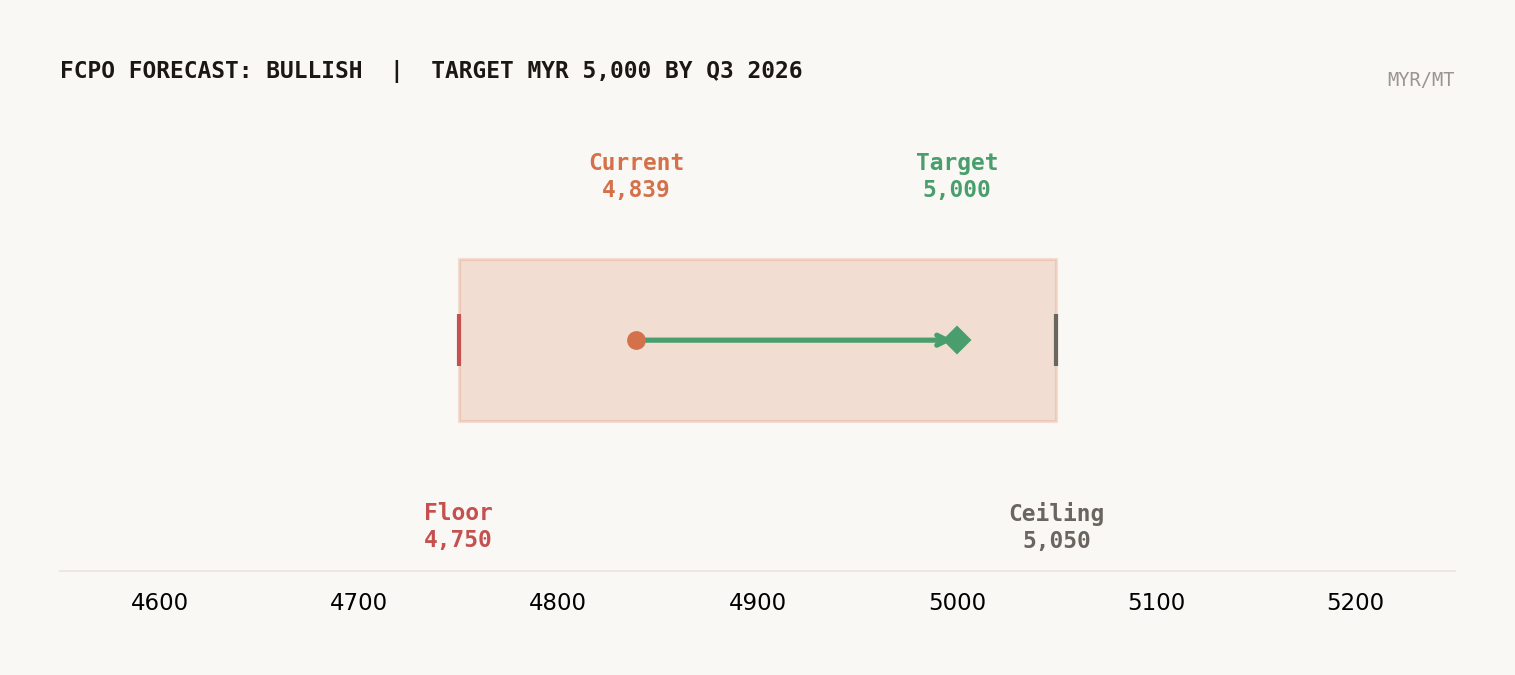
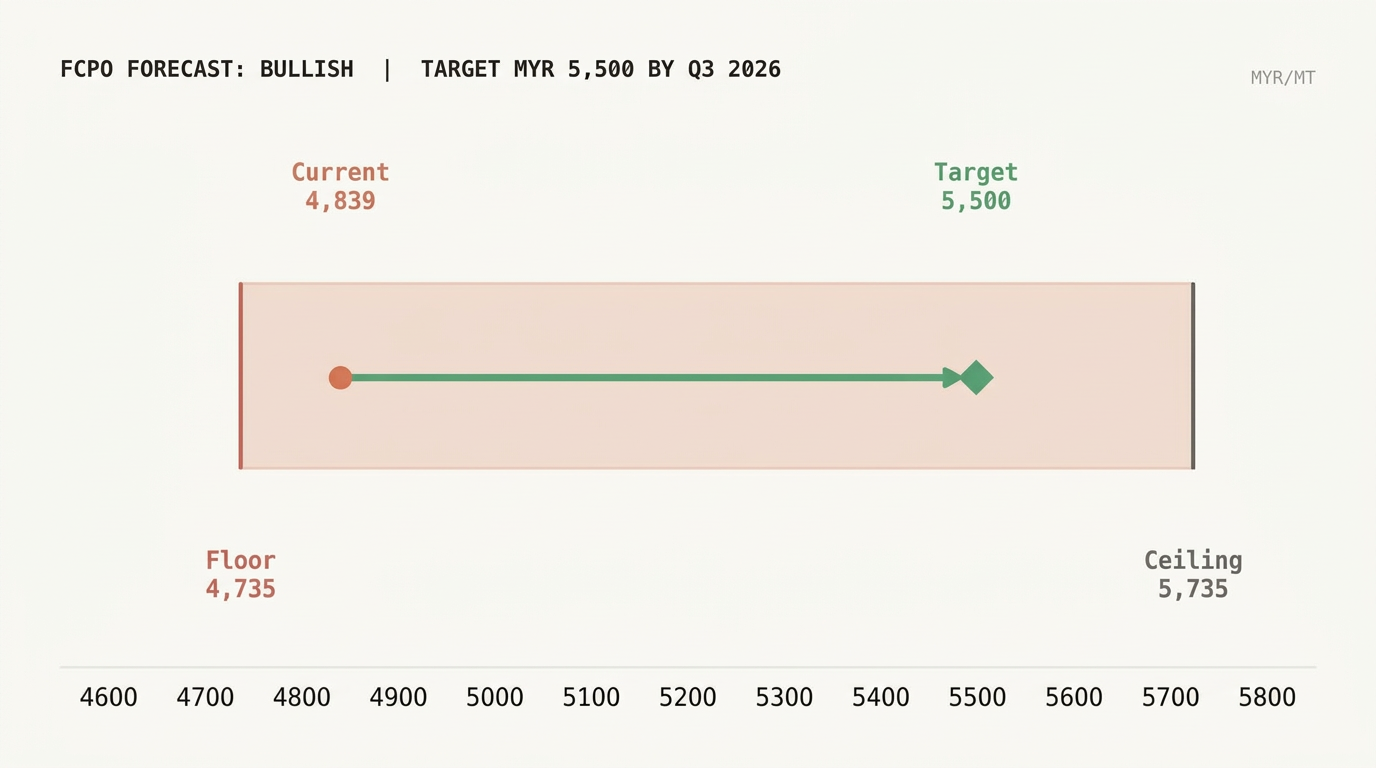
Fixed chart range

diff --git a/content/reports/palm-oil-outlook.md b/content/reports/palm-oil-outlook.md
@@ -1,19 +1,19 @@
 ---
 title: "Palm Oil: B50 Changes the Balance Sheet"
 subtitle: "Bullish. Target MYR 5,000 by Q3 2026."
-date: "2026-04-04"
+date: "2026-04-05"
 tags: ["Agriculture"]
 featured: true
-summary: "FCPO is at MYR 4,839. Indonesia just confirmed B50 biodiesel from July 1. The global surplus shrinks to 1.5 MT on an 80 MT market. I am bullish with a Q3 target of MYR 5,000."
+summary: "FCPO is at MYR 4,839. Indonesia just confirmed B50 biodiesel from July 1. The global surplus shrinks to 1.5 MT on an 80 MT market. I am bullish with a Q3 target of MYR 5,500."
 ---
 
 ## The Setup
 
 A month ago, B50 was a rumor. Today it is policy.
 
-On April 1, Indonesia confirmed mandatory B50 biodiesel starting July 1, 2026. Coordinating Minister Airlangga Hartarto tied the decision directly to the Middle East conflict and rising crude prices. The program will cut fossil fuel consumption by 4 million kiloliters per year. Pertamina is ready to blend. The market rallied 18.75% in March on the anticipation alone.
+On April 1, Indonesia confirmed mandatory B50 biodiesel starting July 1, 2026. Coordinating Minister Airlangga Hartarto tied the decision directly to the Middle East conflict and rising crude prices. The program will cut fossil fuel consumption by 4 million kiloliters per year. Pertamina(Indonesian Oil Company) is ready to blend. The market rallied 14.75% in March on the anticipation alone.
 
-FCPO closed at MYR 4,839 on April 3. The 52-week high is MYR 4,918. Indonesia's April CPO reference price came in at USD 989.63/MT, up 5.4% from March.
+FCPO closed at MYR 4,839 on April 3. The 52-week high is MYR 4,839. Indonesia's April CPO reference price came in at USD 989.63/MT, up 5.4% from March.
 
 The question is no longer whether B50 happens. It is whether the supply side can absorb it.
 
@@ -51,9 +51,9 @@ Every tonne diverted to biodiesel is a tonne removed from the export market. Ind
 
 **I am bullish. FCPO breaks MYR 5,000 by Q3 2026. Six-month range: MYR 4,750 to 5,050.**
 
-**April to June:** The market consolidates between MYR 4,750 and 4,950. MPOB March data drops April 10. If stocks come in below 1.6 MT, prices push toward the upper end. Crude oil stays supported above USD 90 on Middle East tensions. The floor holds. This is the accumulation window.
+**April to June:** The market consolidates between MYR 4,850 and 5400. MPOB March data drops April 10. If stocks come in below 1.6 MT, prices push toward the upper end. Crude oil stays supported above USD 90 on Middle East tensions. The floor holds. This is the accumulation window.
 
-**July to September:** B50 goes live. Indonesia's biodiesel program starts pulling an additional 3 to 4 million kiloliters of CPO-based FAME per year. Seasonal production picks up, but the question is whether Indonesian output can simultaneously feed a 50% biodiesel blend and maintain export volumes at anywhere near 2025 levels. I do not think it can. Physical tightness shows up in basis and premiums first, then in the futures curve. FCPO tests MYR 5,000 and holds above it.
+**July to September:** B50 goes live. Indonesia's biodiesel program starts pulling an additional 3 to 4 million kiloliters of CPO-based FAME per year. Seasonal production picks up, but the question is whether Indonesian output can simultaneously feed a 50% biodiesel blend and maintain export volumes at anywhere near 2025 levels. I do not think it can. Physical tightness shows up in basis and premiums first, then in the futures curve. FCPO tests MYR 5,500 and holds above it.
 
-**What breaks the thesis:** B50 gets rolled back to B45 because the infrastructure cannot handle it. Indonesian production normalizes faster than expected. Crude drops below USD 70 on a Middle East ceasefire, undermining biodiesel economics. All three would need to happen simultaneously for prices to pull back below MYR 4,750. Possible but improbable under the current geopolitical backdrop.
+**What breaks the thesis:** B50 gets rolled back to B45 because the infrastructure cannot handle it. Indonesian production normalizes faster than expected. Crude drops below USD 70 on a Middle East ceasefire, undermining biodiesel economics. All three would need to happen simultaneously for prices to pull back below MYR 4,735. Possible but improbable under the current geopolitical backdrop.
 
